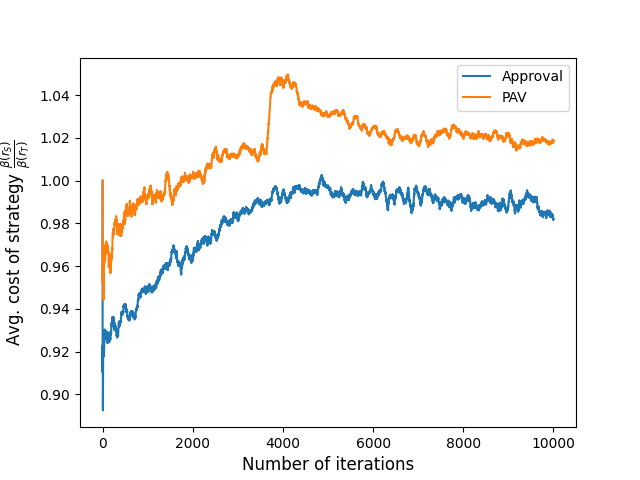
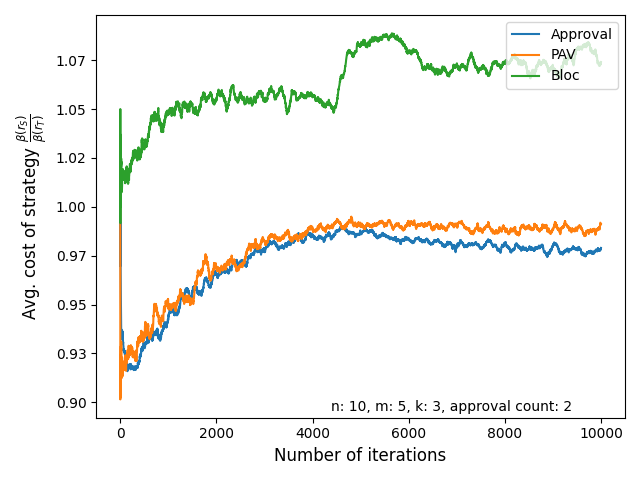
graphs

diff --git a/src/train.py b/src/train.py
@@ -12,7 +12,6 @@ class train_model():
         self.parsed_soc_data = parsed_soc_data
         self.num_candidates = parsed_soc_data['num_candidates']
         self.num_voters = parsed_soc_data['num_voters']
-        self.flattened_voting_profile = parsed_soc_data['flattened_voting_profile']
         self.full_voting_profile = parsed_soc_data['full_voting_profile']
 
         self.iterations = iterations
@@ -35,7 +34,7 @@ class train_model():
         self.all_approval_combinations = []     # initialise an array of all possible combinations of approvals i.e [1's and 0's]
 
         if self.voting_rule == 'approval':
-            self.welfare_scoring_vector = [1] * approval_count + [0] * (self.num_candidates - approval_count)  
+            # self.welfare_scoring_vector = [1] * approval_count + [0] * (self.num_candidates - approval_count)  
             # Generate all combinations of indices for 1s
             ones_indices_combinations = combinations(range(self.num_candidates), approval_count)
 
@@ -146,7 +145,7 @@ class train_model():
                 for cand in committee:
                     if ballot[cand] == 1:
                         winning_committee[tuple(committee)] += 1
-                        break
+                        # break
 
         highest_vote = max(winning_committee.values())
         winning_committee_list = list(filter(lambda x: winning_committee[x] == highest_vote, winning_committee))
@@ -170,7 +169,7 @@ class train_model():
                     break
         elif self.tie_breaking_rule == 'rand':
             winning_committee = random.choice(winning_committee_list)
-        return winning_committee, num_ties
+        return winning_committee
     
 
     def compute_k_borda_winner(self, voter_ballot_iter):
@@ -295,8 +294,7 @@ class train_model():
         winner = []
         if self.voting_setting == 1:    # committee voting setting
             if self.voting_rule == 'approval':
-                winner, num_ties = self.compute_committee_approval_winner(voter_ballot_iter)
-                return winner, num_ties
+                winner = self.compute_committee_approval_winner(voter_ballot_iter)
             elif self.voting_rule == 'plurality':
                 winner = self.compute_k_plurality_winner(voter_ballot_iter)
             elif self.voting_rule == 'anti_plurality':
@@ -342,7 +340,6 @@ class train_model():
                 actual_voter_ballot = self.full_voting_profile[voter]
                 for cand in winner:
                     welfare_dict[voter] += self.welfare_scoring_vector[actual_voter_ballot.index(cand)]
-        
             # # welfare rule for k-approval - if the chosen candidate is approved by the voter, 
             # # the welfare of the voter will be cummulative borda scores
             # if self.voting_rule == 'approval':
@@ -483,25 +480,25 @@ class train_model():
 
         for voter_i in range(self.num_voters):
             if self.voting_rule == 'plurality' or self.voting_rule == 'anti_plurality':
-                cand = self.full_voting_profile[voter_i][0]  # initialy asign this dictionary with true top candidate of voters
+                ballot = self.full_voting_profile[voter_i][0]  # initialy asign this dictionary with true top candidate of voters
             elif self.voting_rule == 'approval':
-                cand = [0]*self.num_candidates
+                ballot = [0]*self.num_candidates
                 for c in self.full_voting_profile[voter_i][ : self.approval_count]:  # true approval vector of voters, first k cands get 1 and rest 0
-                    cand[c] = 1
-                cand = tuple(cand)
+                    ballot[c] = 1
+                ballot = tuple(ballot)
             else: # self.voting_rule == 'borda' or 'borda_top_cand' or 'copeland' or 'chamberlin_courant' or 'bloc':
-                cand = tuple(self.full_voting_profile[voter_i])  # initialy asign this dictionary with true preferences of voters
+                ballot = tuple(self.full_voting_profile[voter_i])  # initialy asign this dictionary with true preferences of voters
             
-            voter_ballot_iter[voter_i] = cand
+            voter_ballot_iter[voter_i] = ballot
         
         voter_ballot_iter_dict = copy.deepcopy(voter_ballot_iter)
         voter_ballot_iter_list.append(voter_ballot_iter_dict)
 
-        if self.voting_setting == 1 and self.voting_rule == 'approval':
-            winning_candidate, num_ties = self.compute_winner(voter_ballot_iter)
-            num_ties_list.append(num_ties)
-        else:
-            winning_candidate = self.compute_winner(voter_ballot_iter)
+        # if self.voting_setting == 1 and self.voting_rule == 'approval':
+        #     winning_candidate, num_ties = self.compute_winner(voter_ballot_iter)
+        #     num_ties_list.append(num_ties)
+        # else:
+        winning_candidate = self.compute_winner(voter_ballot_iter)
         
         iter_winners_list.append(winning_candidate)
 
@@ -519,7 +516,7 @@ class train_model():
 
             if (voter_ballot_dict[voter]['count'][ballot_iter]):
                 winning_borda_score += voter_ballot_dict[voter]['reward'][ballot_iter] / voter_ballot_dict[voter]['count'][ballot_iter]
-        print(winning_borda_score, winning_candidate)
+
         borda_scores_arr.append(winning_borda_score)
         welfare_dict_list.append(welfare_dict)
 
@@ -537,11 +534,11 @@ class train_model():
             voter_ballot_iter_dict = copy.deepcopy(voter_ballot_iter)
             voter_ballot_iter_list.append(voter_ballot_iter_dict)
 
-            if self.voting_setting == 1 and self.voting_rule == 'approval':
-                winning_candidate, num_ties = self.compute_winner(voter_ballot_iter)
-                num_ties_list.append(num_ties)
-            else:
-                winning_candidate = self.compute_winner(voter_ballot_iter)
+            # if self.voting_setting == 1 and self.voting_rule == 'approval':
+            #     winning_candidate, num_ties = self.compute_winner(voter_ballot_iter)
+            #     num_ties_list.append(num_ties)
+            # else:
+            winning_candidate = self.compute_winner(voter_ballot_iter)
             iter_winners_list.append(winning_candidate)
             
             welfare_dict = self.compute_welfare(voter_ballot_iter, winning_candidate)
@@ -582,11 +579,11 @@ class train_model():
         voter_ballot_iter_dict = copy.deepcopy(voter_ballot_iter)
         voter_ballot_iter_list.append(voter_ballot_iter)
 
-        if self.voting_setting == 1 and self.voting_rule == 'approval':
-            winning_candidate, num_ties = self.compute_winner(voter_ballot_iter)
-            num_ties_list.append(num_ties)
-        else:
-            winning_candidate = self.compute_winner(voter_ballot_iter)
+        # if self.voting_setting == 1 and self.voting_rule == 'approval':
+        #     winning_candidate, num_ties = self.compute_winner(voter_ballot_iter)
+        #     num_ties_list.append(num_ties)
+        # else:
+        winning_candidate = self.compute_winner(voter_ballot_iter)
 
         iter_winners_list.append(winning_candidate)
 

diff --git a/src/voting_rules_comp_utils.py b/src/voting_rules_comp_utils.py
@@ -68,15 +68,20 @@ colors = ['#1f77b4', '#ff7f0e', '#2ca02c', '#d62728', '#9467bd', '#8c564b', '#e3
 
 voting_rules_list_dict = {
     "plurality_ballot_rules" : ["plurality", "anti_plurality"],
-    "approval_ballot_rules" : ["approval", "pav"],
-    "ranked_ballot_rules" : ["borda", "chamberlin_courant", "monroe", "stv", "bloc"]
+    "approval_ballot_rules" : ["approval", "pav", "bloc"],
+    "ranked_ballot_rules" : ["borda", "chamberlin_courant", "monroe", "stv"]
 }
+
+
+
+
+
+
+file_to_read = "setting_1_test_config_test_3_tie_breaking_rule_rand_approval_count_2_voter_10_cand_5_committee_size_3_iter_50000_avg_50.json"
 
 for voting_rule_type in voting_rules_list_dict.keys():
 
-	file_to_read = "setting_1_test_config_test_3_tie_breaking_rule_rand_approval_count_2_voter_10_cand_5_committee_size_3_iter_50000_avg_50.json"
 	file_to_read = curr_dir + "/numerical_results/voting_rules_comp_study/{}/".format(voting_rule_type) + file_to_read
-
 
 	read_result = read_results(file_to_read)
 	run_setting = read_result.get_run_setting()
@@ -181,7 +186,7 @@ for voting_rule_type in voting_rules_list_dict.keys():
 
 	def cost_of_strategy():
 		cost_dict = {}
-		for voting_rule in rewards.keys():
+		for voting_rule in voting_rule_list:
 			if voting_rule != "borda_top_cand":
 				print("voting_rule: ", voting_rule)
 				cost_dict[voting_rule] = []
@@ -231,9 +236,9 @@ for voting_rule_type in voting_rules_list_dict.keys():
 
 
 	# # graphs for showing avg borda score for given voting setting 
-	# plot = plt.figure()
+	# fig, ax = plt.subplots()
 	# idx = 0
-	# for voting_rule in avg_score_coords.keys():
+	# for voting_rule in voting_rule_list:
 	# 	if voting_rule != "borda_top_cand":
 	# 		print(voting_rule)
 	# 		print(avg_score_coords[voting_rule]["avg_score_arr"]["true"][0], avg_score_coords[voting_rule]["avg_score_arr"]["strategic"][-1])
@@ -243,10 +248,14 @@ for voting_rule_type in voting_rules_list_dict.keys():
 	# 		plt.plot([i for i in range(batch, iterations + 1, batch)], avg_score_coords[voting_rule]["avg_score_arr"]["true"], label=voting_rules_labels["true_{}".format(voting_rule)], color=colors[idx], linestyle='--')
 	# 		idx += 1
 
+	# plt.text(.9, .01, "n: {}, m: {}, k: {}, approval count: {}".format(num_voters, num_candidates, committee_size, approval_count),
+	# 	fontsize=10, ha='right', va='bottom', transform=ax.transAxes)
+
 	# plt.legend(loc='upper right')
-	# plt.xlabel("Number of iterations")
-	# plt.ylabel("Avg. Borda Score")
-	# # plt.ylim(0, actual_highest_vote_per_approval + 1)
+	# plt.xlabel("Number of iterations", fontsize=12)
+	# plt.ylabel("Avg. Borda Score", fontsize=12)
+	# plt.gca().yaxis.set_major_formatter(FormatStrFormatter('%.2f'))
+	# # plt.tight_layout()
 	# plt.show()
 	# graph_file = 'avg_score_setting_{}_test_config_{}_tie_breaking_rule_{}_approval_count_{}_voter_'.format(voting_setting, test, tie_breaking_rule, approval_count) + str(num_voters) + '_cand_' + str(num_candidates) + \
 	# 			"_committee_size_" + str(committee_size) + "_iter_" + str(iterations) + "_avg_" + str(avg_runs) + '.png'

diff --git a/src/voting_rule_comparitive_run.py b/src/voting_rule_comparitive_run.py
@@ -10,6 +10,7 @@ import matplotlib.pyplot as plt
 from tqdm import tqdm
 from preflibtools.properties import borda_scores
 from itertools import permutations, combinations
+from read_result import read_results
 
 
 # data_file_name = {
@@ -53,8 +54,8 @@ iterations = 50000
 batch = 1000
 
 # avg_runs = 1
-# iterations = 100
-# batch = 10
+# iterations = 10000
+# batch = 100
 
 
 # create dictionary to save the monotonicity results of different test configs
@@ -105,8 +106,8 @@ voting_rules_labels = {
 colors = ['#1f77b4', '#ff7f0e', '#2ca02c', '#d62728', '#9467bd', '#8c564b', '#e377c2']
 
 voting_rules_list_dict = {
-    "ranked_ballot_rules" : ["borda", "chamberlin_courant", "monroe", "stv", "bloc"],
-    "approval_ballot_rules" : ["approval", "pav"],
+    "ranked_ballot_rules" : ["borda", "chamberlin_courant", "monroe", "stv"],
+    "approval_ballot_rules" : ["approval", "pav", "bloc"],
     "plurality_ballot_rules" : ["plurality", "anti_plurality"]
 }
 

diff --git a/src/read_result.py b/src/read_result.py
@@ -112,3 +112,13 @@ class read_results():
                 curr_run = curr_test[run]
                 rewards[voting_rule][run] = curr_run["predicted_prefrence_values"]["rewards"]     # preference = [ith iter {voter: [preference]}], list of voter preference dictionary over i iterations
         return rewards
+    
+    def get_voting_rules_comp_true_preference(self):
+        true_profile = []
+        # for voting_rule in self.test_details.keys():
+        voting_rule = "plurality"
+        curr_test = self.test_details[voting_rule]
+        for run in curr_test.keys():
+            curr_run = curr_test[run]
+            true_profile.append(curr_run["true_preference_values"]["profile"])     # preference = [ith iter {voter: [preference]}], list of voter preference dictionary over i iterations
+        return true_profile
